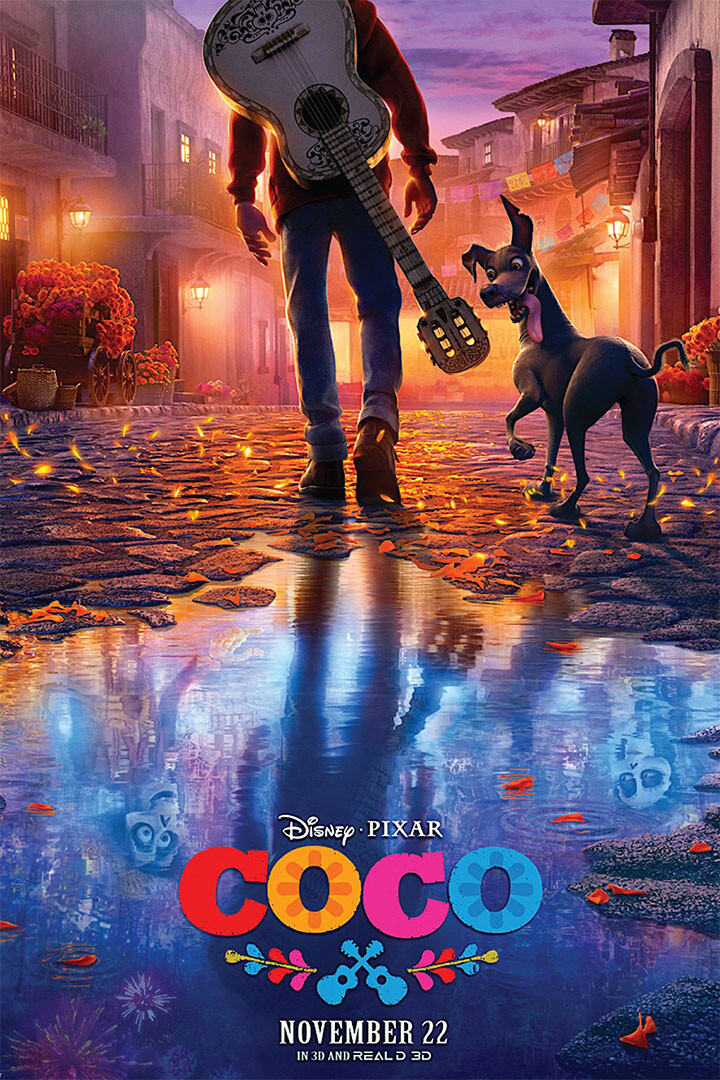
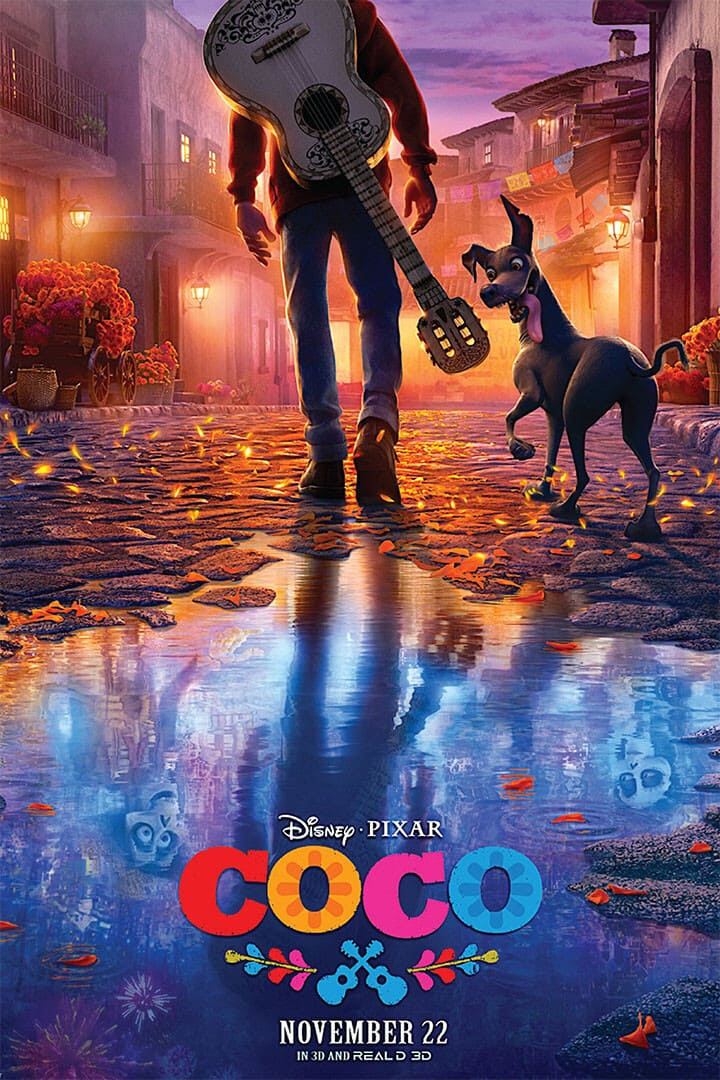
reducí el peso de las imagenes

diff --git a/scripts/app.js b/scripts/app.js
@@ -50,7 +50,7 @@ const app = Vue.createApp({
         fecha: "", 
         puntuacion: null, 
         comentario: "",
-        imagen: "img/interstellar_poster.jpg"
+        imagen: "img/interstellar_poster.webp"
       },
       {
         titulo: "Midsommar", 
